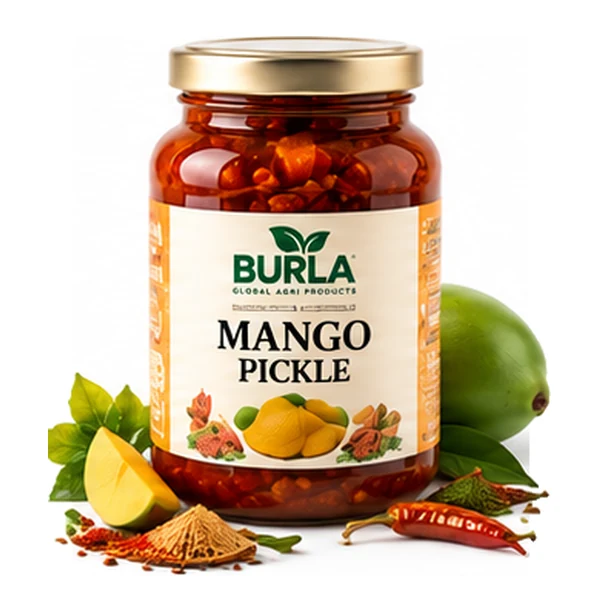
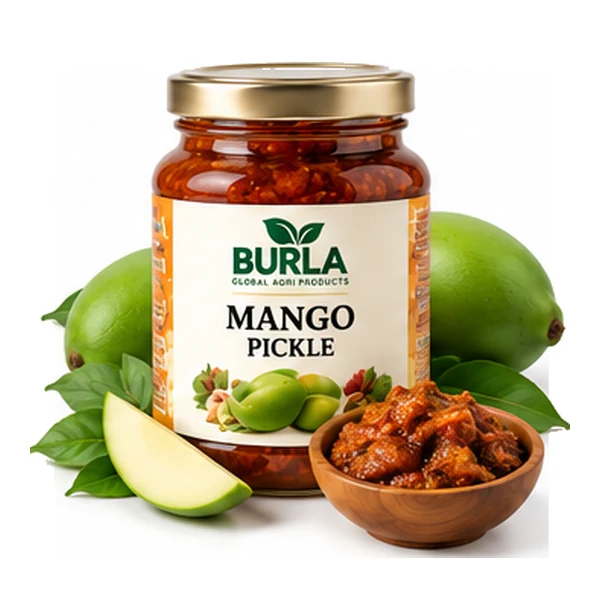
feat(imagery): add the client's photographs for the seven pickles
Supplied 2026-09-10 as one sheet in two bands — Veg Pickles (Tomato,
Gongura, Garlic, Mango) and Non-Veg Pickles (Chicken, Prawns, Mutton) —
each card named. Its Mango and Gongura cards replace the Featured sheet's,
so the seven pickles share one set; the Featured sheet now supplies only
Red Chilli Powder.

The extraction script now reads the label in blocks of rows separated by
blank space rather than row by row. On the Tomato Pickle card a bowl's
colourless shadow sits 13 rows above the name, and row by row it passed for
label, cutting 8 rows off the photo. Every earlier output is
byte-identical.

The jar labels in these photographs are part of the generated image, not
real packaging; noted in imagery.ts.

diff --git a/apps/web/src/lib/imagery.ts b/apps/web/src/lib/imagery.ts
@@ -95,13 +95,15 @@ export const imagery: {
       { src: `/images/categories/${slug}.webp`, alt: alt!, width: 480, height: 360 },
     ]),
   ),
-  // Supplied by the client, 2026-09-10, as four sheets; each photo cut out
+  // Supplied by the client, 2026-09-10, as five sheets; each photo cut out
   // and re-centred at one scale (assets/products/).
-  //   - The Featured Products sheet: mango pickle, red chilli powder and
-  //     gongura pickle. Its Dehydrated Banana and Ragi Flour are not in the
-  //     catalogue; its Dehydrated Mango is superseded by the fruits sheet.
-  //   - The Powders, Flakes and Dehydrated Fruits sheets: every card, one per
-  //     product in those categories, each named on its card.
+  //   - The Featured Products sheet: red chilli powder. Its Dehydrated Banana
+  //     and Ragi Flour are not in the catalogue; its Dehydrated Mango, Mango
+  //     Pickle and Gongura Pickle are superseded by the category sheets.
+  //   - The Powders, Flakes, Dehydrated Fruits and Pickles sheets: every
+  //     card, one per product in those categories, each named on its card.
+  //     The pickle jars' labels are part of the generated image, not real
+  //     packaging.
   // Alt text describes what each photograph shows, and nothing more.
   products: Object.fromEntries(
     [
@@ -111,9 +113,14 @@ export const imagery: {
       ["dehydrated-fruits-pineapple", "Wooden bowl of dried pineapple rings with a fresh pineapple"],
       ["dehydrated-fruits-sapota", "Wooden bowl of dried sapota slices with fresh sapota"],
       ["dehydrated-fruits-honey", "Jar of honey with a bowl of honey, a honey dipper, honeycomb and white flowers"],
-      ["mango-pickle", "Jar of Mango Pickle with fresh mango and dried chillies"],
+      ["tomato-pickle", "Jar of Tomato Pickle and a bowl of it, with fresh tomatoes"],
+      ["gongura-pickle", "Jar of Gongura Pickle and a bowl of it, with gongura leaves"],
+      ["garlic-pickle", "Jar of Garlic Pickle and a bowl of it, with garlic bulbs and cloves"],
+      ["mango-pickle", "Jar of Mango Pickle and a bowl of it, with green mangoes"],
+      ["chicken-pickle", "Jar of Chicken Pickle and a bowl of it, with raw chicken, red chillies and peppercorns"],
+      ["prawns-pickle", "Jar of Prawns Pickle and a bowl of it, with prawns, red chillies and peppercorns"],
+      ["mutton-pickle", "Jar of Mutton Pickle and a bowl of it, with raw mutton, red chillies and peppercorns"],
       ["red-chilli-powder", "Wooden bowl of red chilli powder with dried red chillies"],
-      ["gongura-pickle", "Jar of Gongura Pickle with gongura leaves and red chillies"],
       ["moringa-powder", "Wooden bowl of moringa powder with moringa leaves"],
       ["banana-powder", "Wooden bowl of banana powder with bananas and banana slices"],
       ["lemon-powder", "Wooden bowl of lemon powder with lemons and lemon slices"],

diff --git a/assets/products/extract_product_sheets.py b/assets/products/extract_product_sheets.py
@@ -6,6 +6,7 @@ Cut the product photographs out of the client's per-category sheets.
 Input   assets/products/powders-supplied.png       13 cards (2092 x 752)
         assets/products/flakes-supplied.png        7 cards (2092 x 752)
         assets/products/fruits-supplied.png        6 cards (1774 x 887)
+        assets/products/pickles-supplied.png       7 cards (1536 x 1024)
 Output  apps/web/public/images/products/{slug}.webp  one square image each
 
 Same method as extract_featured.py: card edges measured from the sheet's own
@@ -72,10 +73,26 @@ FRUITS = [
     ("dehydrated-fruits-honey", (1190, 1762), D_ROW_2),  # sheet: "Honey (Confirmation Required)"
 ]
 
+# Pickles sheet: a "Veg Pickles" band over four cards, a "Non-Veg Pickles"
+# band over three. The rows start below each band. Its Mango and Gongura
+# cards replace the Featured sheet's, so the seven pickles match.
+P_ROW_1 = (66, 466)     # Veg Pickles
+P_ROW_2 = (553, 989)    # Non-Veg Pickles
+PICKLES = [
+    ("tomato-pickle", (17, 384), P_ROW_1),
+    ("gongura-pickle", (394, 762), P_ROW_1),
+    ("garlic-pickle", (773, 1141), P_ROW_1),
+    ("mango-pickle", (1151, 1518), P_ROW_1),
+    ("chicken-pickle", (17, 511), P_ROW_2),
+    ("prawns-pickle", (521, 1014), P_ROW_2),
+    ("mutton-pickle", (1024, 1518), P_ROW_2),
+]
+
 SHEETS = [
     ("powders-supplied.png", POWDERS),
     ("flakes-supplied.png", FLAKES),
     ("fruits-supplied.png", FRUITS),
+    ("pickles-supplied.png", PICKLES),
 ]
 
 TILE = 600      # square, matching the product card's image area, ~2x its size
@@ -108,30 +125,34 @@ for sheet, (slug, (x0, x1), (top, bottom)) in CARDS:
     coloured = (ink & (sat > 50)).sum(axis=1)
     textlike = (((grey < 110) & (sat < 45)).sum(axis=1) >= 3) & (coloured == 0)
 
-    # The label is found from the BOTTOM up, not from mid-card down: white
-    # garlic and a dark beetroot are colourless enough to pass for text, and
-    # scanning down stopped on them. Upwards, the label is the first text,
-    # its lines (two, on ABC) are close together, and a wide blank gap
-    # separates it from the photograph. Colour anywhere ends it at once.
-    inked = ink.sum(axis=1)
-    y = max(yy for yy in range(h) if textlike[yy])
-    text_top, gap = y, 0
-    while y > 0:
-        y -= 1
-        if coloured[y] > 0:
+    # The label is found from the BOTTOM up, in blocks: runs of inked rows
+    # separated by blank ones. The lowest text block is the label's last
+    # line; the blocks above it join the label while they are colourless and
+    # close (ABC and Honey have two lines, 11 and 5 rows apart). The first
+    # block with colour in it is the photograph, and so is anything past a
+    # wide gap.
+    #
+    # Not row by row: a bowl's colourless shadow sits in the same block as
+    # the bowl, and read row by row it passed for label — on the Tomato
+    # Pickle card the cut then took 8 rows off the photo. Nor scanning down
+    # from mid-card: white garlic and dark beetroot pass for text.
+    blank = ink.sum(axis=1) <= 2
+    blocks, y = [], 0
+    while y < h:
+        if blank[y]:
+            y += 1
+            continue
+        start = y
+        while y < h and not blank[y]:
+            y += 1
+        blocks.append((start, y - 1))
+    last_line = max(yy for yy in range(h) if textlike[yy])
+    label = [b for b in blocks if b[0] <= last_line]
+    text_top = label[-1][0]
+    for above, below in zip(label[-2::-1], label[:0:-1]):
+        if below[0] - above[1] - 1 >= LABEL_GAP or coloured[above[0]:above[1] + 1].any():
             break
-        if inked[y] <= 2:
-            gap += 1
-            if gap >= LABEL_GAP:
-                break
-        else:
-            # A narrower gap still ends the label if what sits above it is
-            # coloured: the Honey card's photo is only 11 rows above its
-            # name — the same spacing as ABC's two label lines, which are
-            # text, and colourless.
-            if gap >= 4 and coloured[max(0, y - 7):y + 1].any():
-                break
-            gap, text_top = 0, y
+        text_top = above[0]
     photo = card[: text_top - 8]
 
     ys, xs = np.nonzero((255 - photo).max(axis=2) > 14)

diff --git a/assets/products/extract_featured.py b/assets/products/extract_featured.py
@@ -31,13 +31,12 @@ os.makedirs(OUT, exist_ok=True)
 TOP, BOTTOM = 94, 686
 # Named for the catalogue's product slugs. The sheet's Dehydrated Banana
 # (x 728-1078) and Ragi Flour (x 1444-1793) are not in the catalogue of
-# 2026-09-10 and are not extracted. Its Dehydrated Mango (x 14-363) is
-# superseded by the Dehydrated Fruits sheet's Mango card, so the six fruits
-# share one set; see extract_product_sheets.py.
+# 2026-09-10 and are not extracted. Its Dehydrated Mango (x 14-363), Mango
+# Pickle (x 376-715) and Gongura Pickle (x 1805-2157) are superseded by the
+# Dehydrated Fruits and Pickles sheets, so each category shares one set; see
+# extract_product_sheets.py.
 CARDS = [
-    ("mango-pickle", (376, 715)),
     ("red-chilli-powder", (1090, 1431)),
-    ("gongura-pickle", (1805, 2157)),
 ]
 
 TILE = 600      # square, matching the product card's image area, ~2x its size
